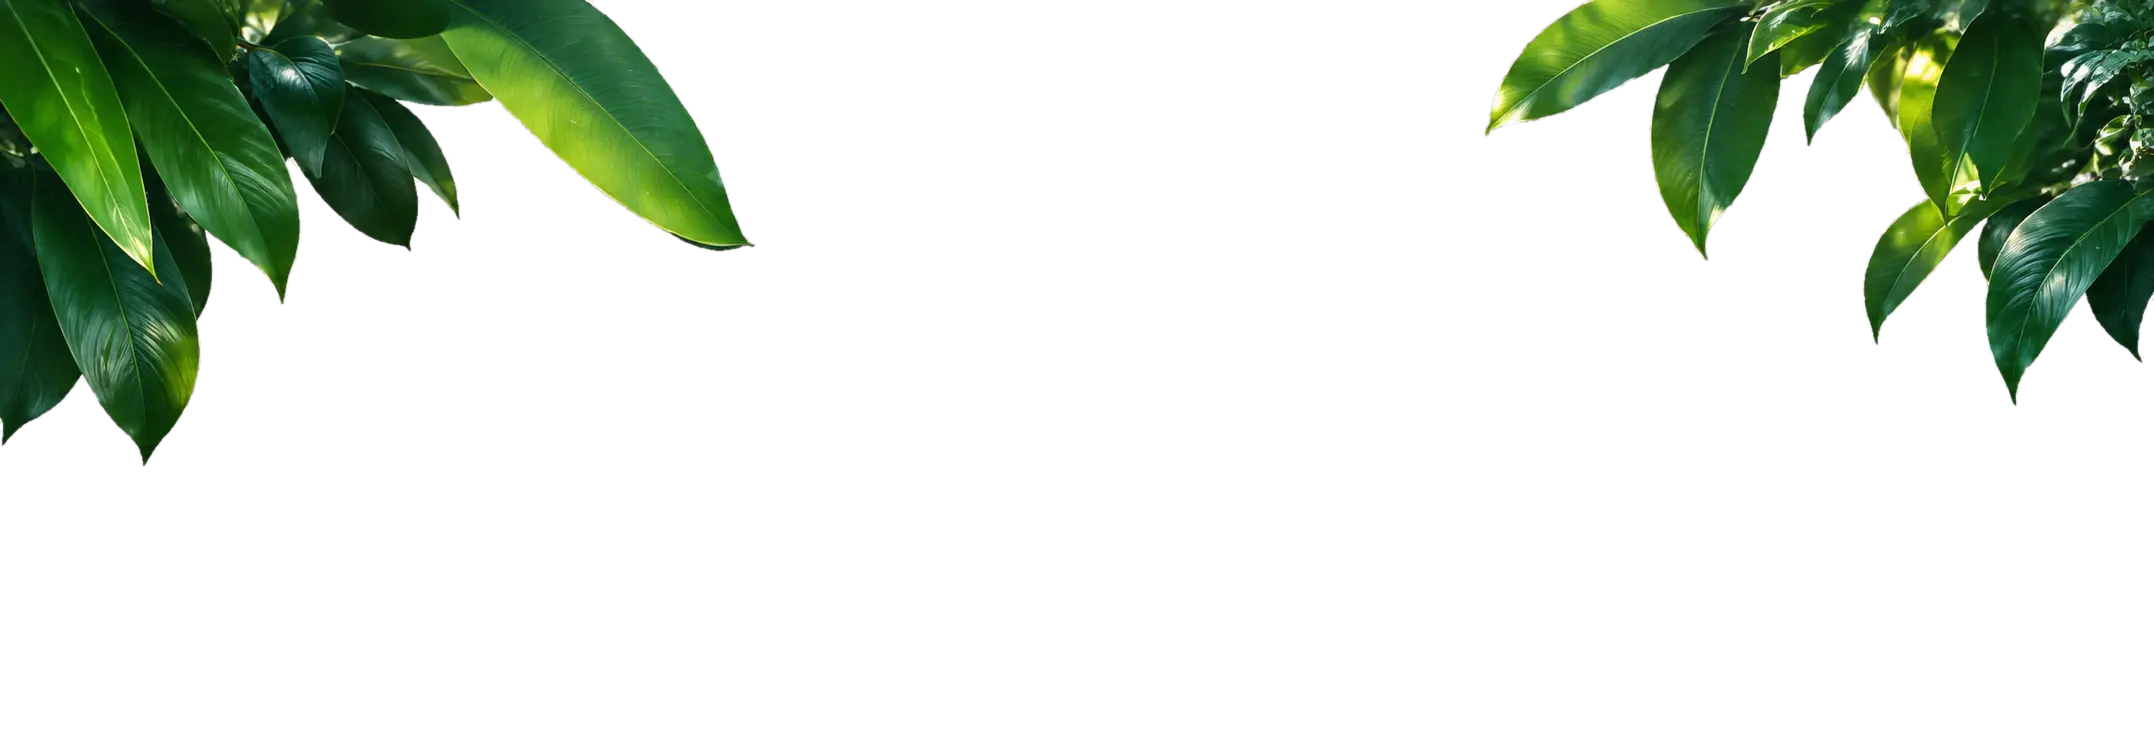
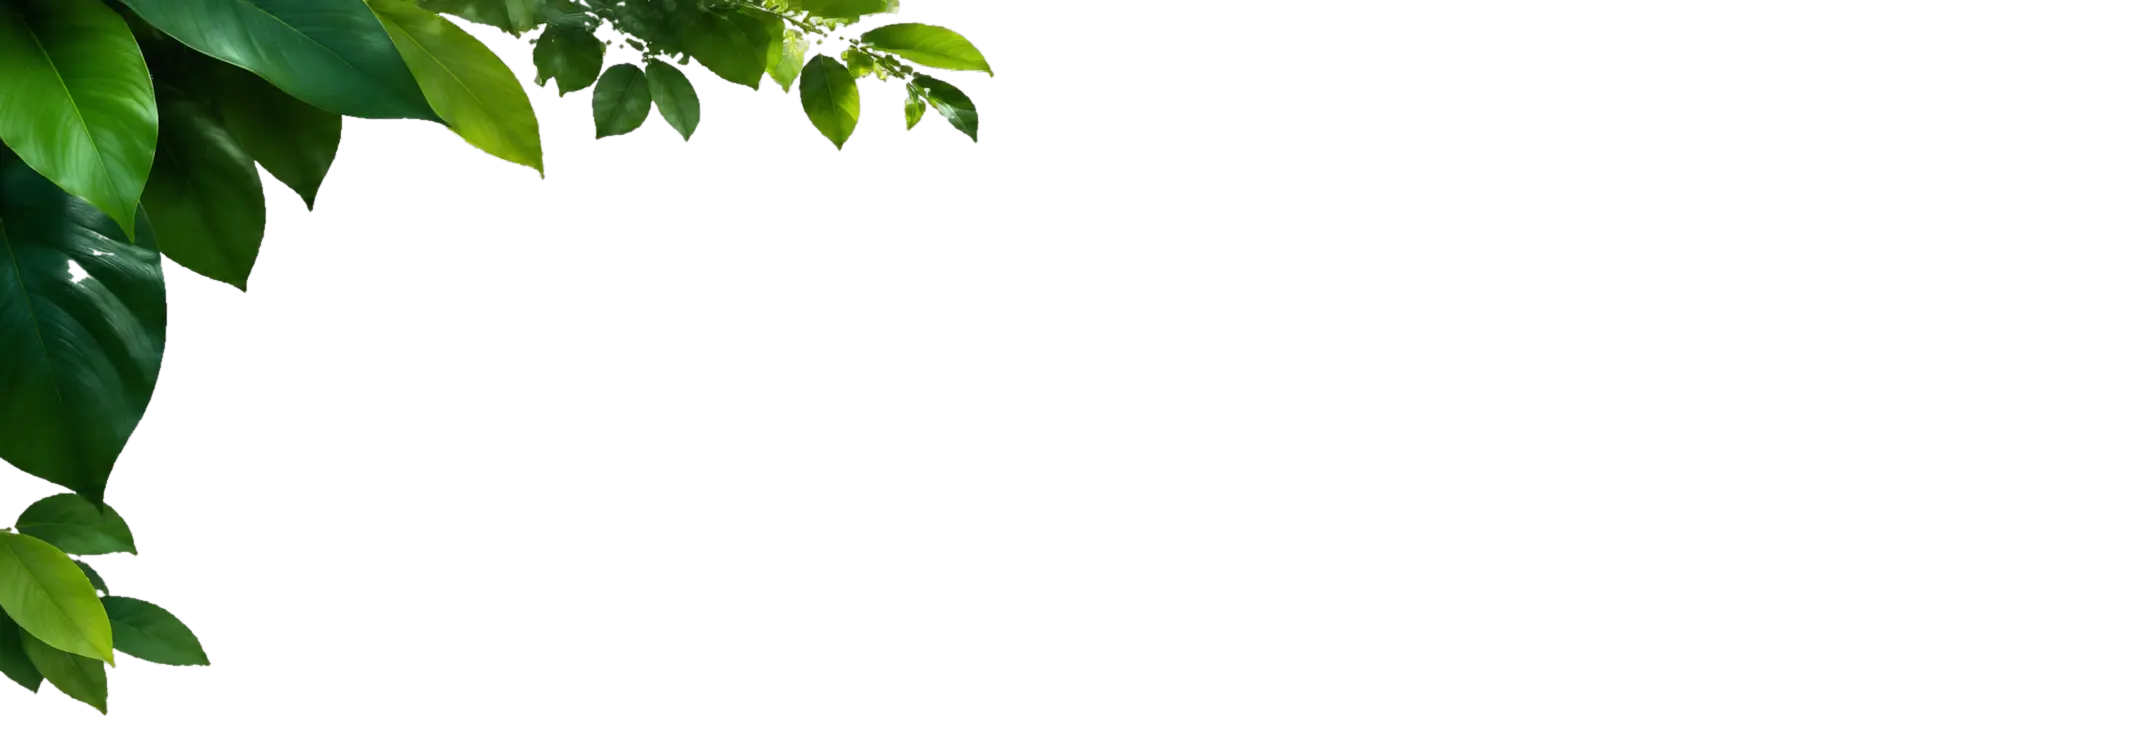
fix: match hero foliage placement to visual target

Changed region(s): [[0.0, 0.0, 0.467, 0.9644], [0.6849, 0.0, 1.0, 0.5425]]

diff --git a/app/(public)/page.tsx b/app/(public)/page.tsx
@@ -141,8 +141,8 @@ export default async function HomePage() {
         <Image
           src="/images/decor/hero-leaves.webp"
           alt=""
-          width={2154}
-          height={730}
+        width={2152}
+        height={731}
           loading="eager"
           fetchPriority="low"
           sizes="100vw"
